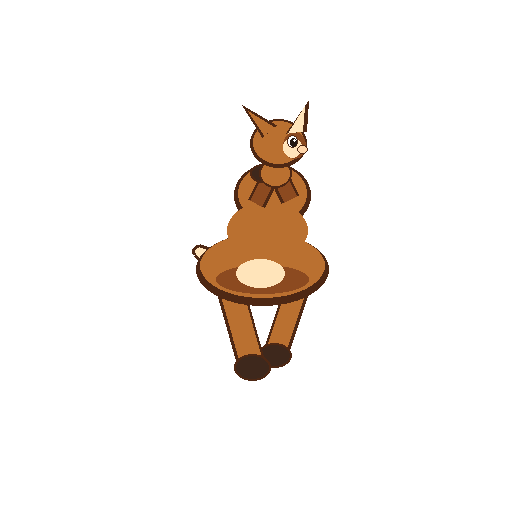
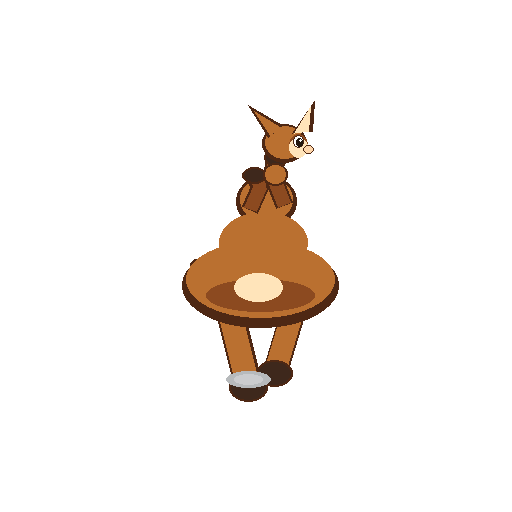
feat(mobile-web): hero rear lock + pear depth (sync XB)
Align anime animal heroes with Published XBuilder depth: stronger
rear-¾ pear sprites, drawPlayerRear bob~10 + plant size 1.04/0.99,
cache ?v=hero3d1. Docs for item-6 scorecard / hero depth.

Changed region(s): [[0.3438, 0.1875, 0.6875, 0.7812], [0.5938, 0.4375, 0.625, 0.5]]

diff --git a/mobile-web/game.js b/mobile-web/game.js
@@ -3762,7 +3762,9 @@
     drawPlayerProcedural(x, py, scale, stretch);
   }
 
-  /** Rear ¾ run cycle from assets/forest/{bull,deer,dog}_0..4.png — no side rotate. */
+  /** Rear ¾ run cycle from assets/forest/{bull,deer,dog}_0..4.png — no side rotate.
+   *  Used in all modes (earth/forest/space/chill/plant) when char assets load.
+   *  Synced to XB: lock rotation, bob~10 on plant, size pulse 1.04/0.99. */
   function drawPlayerRear(x, py, scale, stretch) {
     const kind = heroKind || "bull";
     let frame = 0;
@@ -3775,17 +3777,27 @@
     const img = charImgs[kind + "_" + frame];
     if (!img || !img.complete || !img.naturalWidth) return false;
 
-    // Vertical bob from stride (XB: hop on odd frames) — locked rotation (no lean rotate)
-    const stride = Math.sin(runPhase * 2.4);
-    const bob = player.jumping || player.sliding ? 0 : Math.abs(stride) * 6.5 * scale;
+    // Vertical bob (XB plant frames ~10 / mid 0 / recovery 2) — locked rotation (no lean)
+    let bobPx = 0;
+    if (!player.jumping && !player.sliding) {
+      if (frame === 0 || frame === 2) bobPx = 10;
+      else if (frame === 3) bobPx = 2;
+    }
+    const bob = bobPx * scale;
     // slight lateral settle toward target lane without rotating the sprite
     const settleX = (player.lane - player.displayLane) * -10 * scale;
 
-    const drawH = (player.sliding ? 78 : 96) * scale;
+    // XB foot-plant size pulse only (contact squash, not flip)
+    let plantScale = 1;
+    if (!player.jumping && !player.sliding) {
+      plantScale = frame === 0 || frame === 2 ? 1.04 : 0.99;
+    }
+
+    const drawH = (player.sliding ? 78 : 96) * scale * plantScale;
     const drawW = drawH * (img.naturalWidth / img.naturalHeight);
-    // hips-near / head-far: mild extra vertical squash toward feet (sprite already pear-shaped)
-    const hipNear = player.sliding ? 0.78 : 1.08;
-    const headFar = player.sliding ? 0.9 : 0.92;
+    // hips-near / head-far: pear sprites + mild draw bias toward feet
+    const hipNear = player.sliding ? 0.78 : 1.12;
+    const headFar = player.sliding ? 0.9 : 0.9;
 
     ctx.save();
     ctx.translate(x + settleX, py + bob + (player.sliding ? 12 * scale : 0));

diff --git a/mobile-web/index.html b/mobile-web/index.html
@@ -8,7 +8,7 @@
   <meta name="theme-color" content="#1a8cff" />
   <meta name="description" content="勇敢牛牛，不怕困难 —— 竖屏三道跑酷，微信可开" />
   <title>勇敢牛牛 · 手机跑酷</title>
-  <link rel="stylesheet" href="style.css?v=reward1" />
+  <link rel="stylesheet" href="style.css?v=hero3d1" />
 </head>
 <body>
   <div id="app" data-theme="earth">
@@ -194,6 +194,6 @@
       </div>
     </div>
   </div>
-  <script src="game.js?v=reward1"></script>
+  <script src="game.js?v=hero3d1"></script>
 </body>
 </html>

diff --git a/docs/XBUILDER_HERO_DEPTH.md b/docs/XBUILDER_HERO_DEPTH.md
@@ -1,0 +1,24 @@
+# XBuilder：动漫角色跑动立体感（item 6）
+
+反馈：「动漫人物跑动显得不是很立体」→ 指菜单可选的 **牛 / 鹿 / 狗** 动漫动物主角（含悬空 mapId4），不是单独人形。
+
+## 规则（DEPTH_FEEL_SCORECARD #6）
+
+| 差 | 好 |
+|----|----|
+| 侧倾 / 纸片翻（`Normal` + heading lean） | 背对锁旋转 + 稳定垂直 bob |
+| 换道扭躯干 | 换道仅 xpos lerp |
+
+目标：item 6 ≥4，无单项 ≤2。
+
+## 实现要点
+
+1. **代码：** `setRotationStyle None`，`setHeading 90`；跑帧只换造型 + bob；跳不 tilt。
+2. **造型：** 背对四分之三 `bull/deer/dog_0..4`（hips 近 / 头远 pear）；见 `art/forest_run/` 与 `xb_upload/forest_heroes/COSTUME_MAP.md`。
+3. **Publish 顺序：** XBuilder 先改并 Publish 同链 → 再 sync mobile-web。
+
+粘贴包与评分估计见 `/workspace/agent-tools/anime-hero-3d-NOTES.md`。
+
+## mobile-web sync
+- `?v=hero3d1`：pear 造型 + `drawPlayerRear` bob≈10 / plant size 1.04·0.99；全模式优先背对精灵。
+- 详见 `/workspace/agent-tools/anime-hero-3d-web-NOTES.md`（推送后）。

diff --git a/docs/XBUILDER_FOREST_REAR.md b/docs/XBUILDER_FOREST_REAR.md
@@ -25,3 +25,11 @@
 
 ## 3. 回归
 植物跑酷 / 抽奖 / 慢慢跑酷 / 无敌 / 炸弹保持不变。
+
+## 4. 角色锚定补丁（2026-10-25 Asia/Shanghai）
+- 问题：英雄脚本曾用 `setRotationStyle Normal` + heading lean（纸片翻），与「锁旋转」宣称不一致。
+- 修复：牛/鹿/狗跑跳全程 `None` + heading 90；仅垂直 bob + 轻落地 size；换道仍横移。
+- 造型：`gen.py` 加强 hips近头远 + 落脚影；上传目录 `xb_upload/forest_heroes/`。
+- 详见 `XBUILDER_HERO_DEPTH.md` 与 `/workspace/agent-tools/anime-hero-3d-NOTES.md`。
+- **未**自动 Publish / 未推网页；等 computerUse Publish 后再 sync。
+- mobile-web sync: `?v=hero3d1`（角色锚定 + pear 造型）。

diff --git a/docs/DEPTH_FEEL_SCORECARD.md b/docs/DEPTH_FEEL_SCORECARD.md
@@ -50,3 +50,13 @@
 结论: 过（无单项 ≤2；可 Publish / 推网页）
 备注: XB 路景冻结 + 树灌冲镜；web 停掉 forest_road tile 纵滑，灌木改 roadScroll z 循环
 ```
+
+```
+日期: 2026-10-25 Asia/Shanghai（预 Publish 估计）
+构建: XB 角色锚定补丁待 computerUse Publish / web 未推
+录屏: （Publish 后补）
+1灭点: —  2缩放: —  3速差: —  4冲镜: —  5地面: —  6角色: 4/5（估计：锁旋转+pear 造型）
+总分: —/30（仅修 item6）
+结论: 代码/造型就绪；需 Publish 后实机复测
+备注: 见 anime-hero-3d-NOTES.md；根因是 lean/Normal 重现
+```
